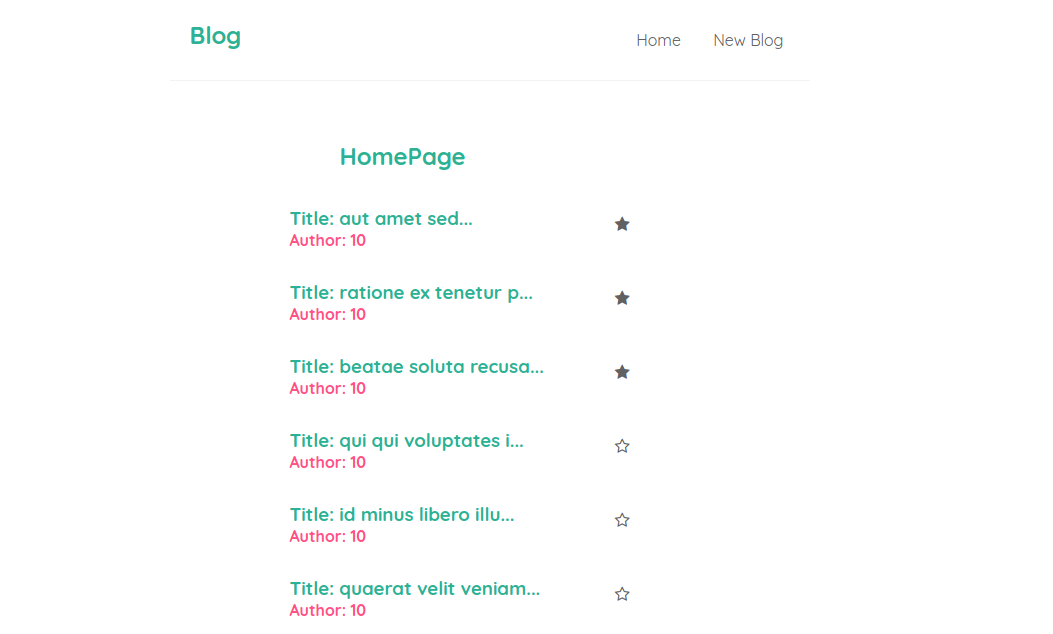
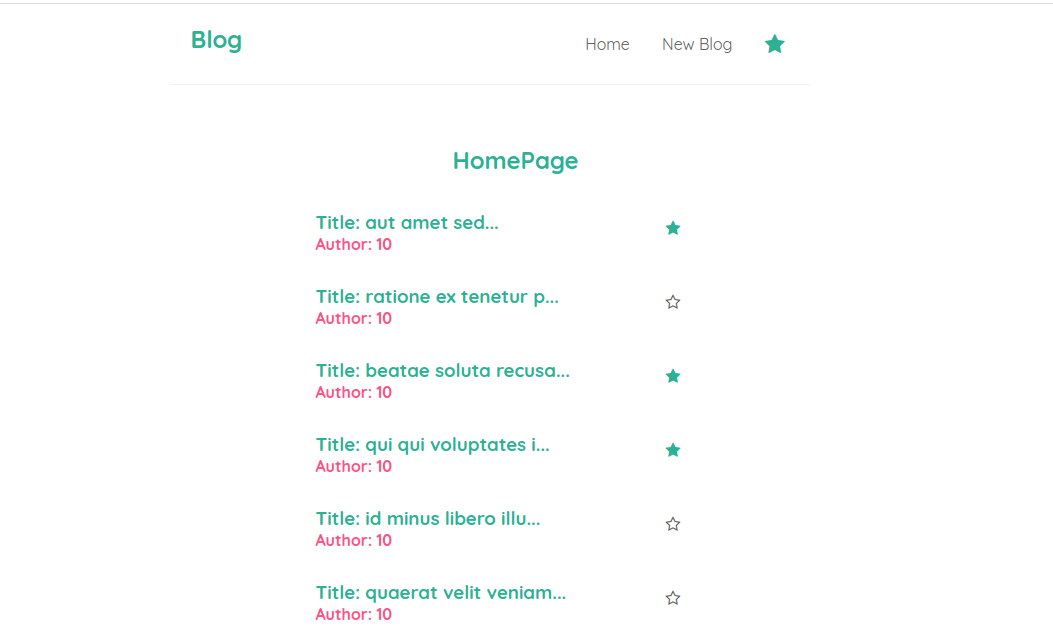
favorites in navBar, filtering choosen blogs

diff --git a/src/components/Favorite/Favorite.js b/src/components/Favorite/Favorite.js
@@ -1,0 +1,32 @@
+import {useSelector} from 'react-redux'
+import { Link } from "react-router-dom";
+import Star from "../Star/Star";
+const Favorite = () => {
+  const store = useSelector(store=>store)
+  const blogs = store.filter(blog => blog.isLiked)
+
+  return ( 
+    <div className="home">
+      
+
+          
+      {blogs &&
+        blogs.map((blog) => {
+          return (// обернули в ссылку, динамически задавая нужный адрес. Теперь при клике на блог, нас перекидывает именно на его страницу   
+            <div key={blog.id} className="card">        
+            <Link  className="details" to={`blogs/${blog.id}`}>
+            <div className="blog" >
+              <h3>Title: {(blog.title).slice(0, 20) + '...'}</h3>
+              <p className="author">Author: {blog.userId} </p>
+             
+            </div>
+            </Link>
+            <Star isLiked={blog.isLiked} id={blog.id}/>
+            </div>
+          );
+        })}
+    </div>
+   );
+}
+ 
+export default Favorite;

diff --git a/src/App.js b/src/App.js
@@ -12,6 +12,7 @@ import BlogDetails from "./components/BlogDetails/BlogDetails";
 import Footer from "./components/Footer/Footer";
 import { useEffect } from "react";
 import { addBlogAC, loadBlogsAC } from "./redux/actionCreators";
+import Favorite from "./components/Favorite/Favorite";
 
 
 function App() {// создаем маршруты. Если маршрут динамический, то он будет переходить на нужный адрес
@@ -38,6 +39,7 @@ function App() {// создаем маршруты. Если маршрут ди
             <Route exact path='/' component={Home}/>
             <Route exact path='/blogs/:id' component={BlogDetails}/>
             <Route exact path='/create' component={Create}/>
+            <Route exact path='/favorite' component={Favorite}/>
          
           </Switch>
           <Footer/>

diff --git a/src/components/NavBar/NavBar.js b/src/components/NavBar/NavBar.js
@@ -8,6 +8,11 @@ const NavBar = () => {
       <div className="links">
         <Link to="/">Home </Link>
         <Link to="/create">New Blog </Link>
+        <Link to="/favorite"><i
+         className="star fa-lg fa fa-star"
+      aria-hidden="true"
+    ></i></Link>
+
       </div>
     </nav>
   );

diff --git a/src/components/Star/Star.js b/src/components/Star/Star.js
@@ -10,11 +10,12 @@ const Star = ({ isLiked, id }) => {
   };
 
   return (
-    <i
+    <div className="pointer">
+    <i 
       onClick={likeHandler}
       className={isLiked ? "star fa fa-star" : "star fa fa-star-o"  }
       aria-hidden="true"
-    ></i>
+    ></i></div>
   );
 };
 

diff --git a/src/index.css b/src/index.css
@@ -271,3 +271,9 @@ text-align: right;
 .fa-star {
   color: #2cb194;
 }
+
+.pointer {
+  width: 10px;
+  height: 10px;
+  cursor: pointer;
+}
